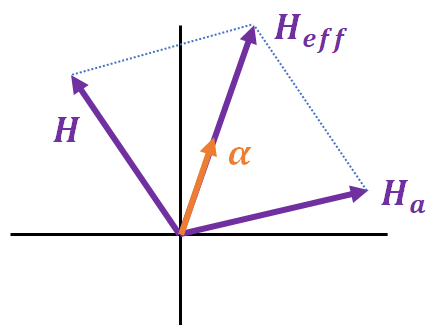
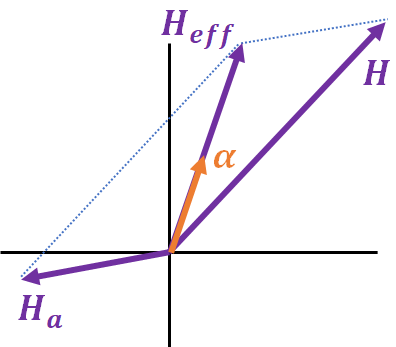
Update

diff --git a/maelasviewer.py b/maelasviewer.py
@@ -302,6 +302,8 @@ def update_output(system):
             html.Div([html.Img(src=app.get_asset_url('eq_cub_poly_lmb_s.png'))]),
             html.H6("The magnetization is considered to be saturated in the direction of the effective field Heff"),
             html.Div([html.Img(src=app.get_asset_url('eff_field.png'))]),
+            html.H6("The magentocrystalline anisotropy field for a polycrystalline material is more complicated than for single crystals. Hence, in the simulation the user can set directly the final direction of equilibrium magnetization via the effective field Heff."),
+            html.Div([html.Img(src=app.get_asset_url('poly.png'))]),
 
             html.H4("Parameters of the simulation"),
             html.H6("(Press Enter after changing any input to update the figures)"),
@@ -643,19 +645,33 @@ def update_output(system):
             html.H4("Theory"),
             html.H6("This interactive applet shows the magnetostriction due to Joule effect for some crystal systems."),
             html.Div([html.Img(src=app.get_asset_url('eq_ort.png'))]),
-            html.H6("where αi and βi (i=x,y,z) are the direction of magnetization (parallel to the external magentic field H) and the measured length direction, respectively. Magentostriction is a small effect that is hard to visualize. To facilitate its visualization in the simulation, we multiply the right hand side of this equation by a scale factor parameter which can be modified by the user."),
+            html.H6("where αi and βi (i=x,y,z) are the direction of magnetization and the measuring length direction, respectively. Magentostriction is a small effect that is hard to visualize. To facilitate its visualization in the simulation, we multiply the right hand side of this equation by a scale factor parameter which can be modified by the user."),
+
+            html.H6("The magnetocrystalline anisotropy energy for orthorhombic systems is"),
+            html.Div([html.Img(src=app.get_asset_url('mae_ort.png'))]),
+            html.H6("where K0, K1 and K2 are the magnetocrystalline anisotropy constants. K0 can be used to shift the minimum energy reference in the 3D visualization of the magnetocrystalline anisotropy energy. The magnetocrystalline anisotropy field Ha is"),
+            html.Div([html.Img(src=app.get_asset_url('mae_field.png'))]),
+            html.H6("where μ0 is the vacuum permeability and Ms is the saturation magnetization. In the simulation, it is assumed that the magnetization is saturated along the effective field Heff"),
+            html.Div([html.Img(src=app.get_asset_url('eff_field.png'))]),
+            html.H6("where H is the external magentic field. The direction of the equilibrium magnetization α is calculated by the Landau-Lifshitz-Gilbert equation"),
+            html.Div([html.Img(src=app.get_asset_url('llg.png'))]),
+            html.H6("where γ is the electron gyromagnetic ratio, and η is the damping parameter. At the equilibrium the magnetization is along the effective field (α||Heff). The torque |α x μ0Heff| is used as criterium for the numerical convergence, it is recommended to use a tolerance for the torque lower than 0.00001 Tesla. The user can change the damping parameter, time step (dt) and total number of iteration steps in case the tolerance for the torque is not achieved."),
+            html.Div([html.Img(src=app.get_asset_url('heffo.png'))]),
+
+
 
             html.H4("Parameters of the simulation"),
             html.H6("(Press Enter after changing any input to update the figures)"),
             html.Hr(),
-            html.H6("Direction of the external magnetic field:"),
-            html.Div(['H',html.Sub('x')," = ",
-              dcc.Input(id='ofieldx', value=1.0, type='number', debounce=True, step=0.1)]),
-            html.Div(['H',html.Sub('y')," = ",
-              dcc.Input(id='ofieldy', value=0.0, type='number', debounce=True, step=0.1)]),
-            html.Div(['H',html.Sub('z')," = ",
-              dcc.Input(id='ofieldz', value=0.0, type='number', debounce=True, step=0.1)]),
-            html.H6("Magnetostrictive coefficients:"),
+            
+            dcc.Markdown(''' **External magnetic field:**'''),
+            html.Div(['μ0H',html.Sub('x'),'(Tesla)'" = ",
+              dcc.Input(id='ofieldx', value=5.000, type='number', debounce=True, step=0.0000001)]),
+            html.Div(['μ0H',html.Sub('y'),'(Tesla)'" = ",
+              dcc.Input(id='ofieldy', value=0.500, type='number', debounce=True, step=0.0000001)]),
+            html.Div(['μ0H',html.Sub('z'),'(Tesla)'" = ",
+              dcc.Input(id='ofieldz', value=0.005, type='number', debounce=True, step=0.0000001)]),
+            dcc.Markdown(''' **Magnetostrictive coefficients:**'''),
             html.Div(['\u03BB',html.Sup("\u03B11,0")," = ",
               dcc.Input(id='oL01', value=0.0, type='number', debounce=True, step=0.000001)]),
             html.Div(['\u03BB',html.Sup("\u03B12,0")," = ",
@@ -682,13 +698,47 @@ def update_output(system):
               dcc.Input(id='oL9', value=0.000001, type='number', debounce=True, step=0.000001)]),
             html.Div(["Scale factor = ",
               dcc.Input(id='oscale', value=1.0, type='number', debounce=True)]),
+            dcc.Markdown(''' **Magnetocrystalline anisotropy constants:**'''),
+            html.Div(['K',html.Sub("0"), "(MJ/m",html.Sup("3"),")"," = ",
+              dcc.Input(id='k0o', value=0.001, type='number', debounce=True, step=0.0000001)]),
+            html.Div(['K',html.Sub("1"), "(MJ/m",html.Sup("3"),")"," = ",
+              dcc.Input(id='k1o', value=0.001, type='number', debounce=True, step=0.0000001)]),
+            html.Div(['K',html.Sub("2"),"(MJ/m",html.Sup("3"),")"," = ",
+              dcc.Input(id='k2o', value=0.001, type='number', debounce=True, step=0.0000001)]),
+            dcc.Markdown(''' **Saturation magnetization:**'''),
+            html.Div(['μ0Ms (Tesla)'," = ",
+              dcc.Input(id='mso', value=0.01, type='number', debounce=True, step=0.0001)]),
+            dcc.Markdown(''' **Landau-Lifshitz-Gilbert solver to find the direction of the equilibrium magnetization (α):**'''),
+            html.Div(['Damping LLG '," = ",
+              dcc.Input(id='alpha0o', value=0.95, type='number', debounce=True, step=0.00001)]),
+            html.Div(['Torque tolerance |α x μ0Heff| (Tesla)'," = ",
+              dcc.Input(id='tolo', value=0.00001, type='number', debounce=True, step=0.000000001)]),
+            html.Div(['Time step LLG (ps)'," = ",
+              dcc.Input(id='dto', value=0.01, type='number', debounce=True, step=0.00001)]),
+            html.Div(['Total number of iteration steps'," = ",
+              dcc.Input(id='nto', value=500000, type='number', debounce=True, step=1)]),
 
             html.Div(id='my-output-o'),
             html.Hr(),
             html.H4(" Simulation"),
             html.H6("The distance between a point on the surface and the origin (0,0,0) describes the length l along direction \u03B2=(sinθ*cosφ, sinθ*sinφ, cosθ), where θ and φ are the polar and azimuthal angles, respectively. The color of the surface corresponds to the relative length change multiplied by the scale factor along direction \u03B2."),
+            html.H6("Solver output:"),
+            html.Table([
+                html.Tr([html.Td(['Parameters']), html.Td(['Calculated values'])]),
+                html.Tr([html.Td(['α', html.Sub('x')]), html.Td(id='meqxo')]),
+                html.Tr([html.Td(['α', html.Sub('y')]), html.Td(id='meqyo')]),
+                html.Tr([html.Td(['α', html.Sub('z')]), html.Td(id='meqzo')]),
+                html.Tr([html.Td(['μ0H', html.Sub('eff,x'),'(T)']), html.Td(id='hefxo')]),
+                html.Tr([html.Td(['μ0H', html.Sub('eff,y'),'(T)']), html.Td(id='hefyo')]),
+                html.Tr([html.Td(['μ0H', html.Sub('eff,z'),'(T)']), html.Td(id='hefzo')]),
+                html.Tr([html.Td(['Torque |α x μ0Heff| (T)']), html.Td(id='torqueo')]),
+            
+            ]),
+            
+            
             dcc.Graph(id='ort_3D'),
-            dcc.Graph(id='ort_2D')
+            dcc.Graph(id='ort_2D'),
+            dcc.Graph(id='mae_ort_3D'),
  
            
         ])
@@ -745,29 +795,33 @@ def field(crystal,sx,sy,sz,ms0,efx,efy,efz,k01,k02):
 
 def llg(crystal0,mms0,effx,effy,effz,kk01,kk02,alpha,tol0,dt,ntot):
 
+    hmod=np.sqrt(effx**2.0+effy**2.0+effz**2.0)
     
-  #  uu=np.random.random_sample()*np.pi
-  #  vv=np.random.random_sample()*2.0*np.pi
+    if hmod < 10.0**(-6): 
+        uu=np.random.random_sample()*np.pi
+        vv=np.random.random_sample()*2.0*np.pi
             
-  #  a0x = np.sin(uu)*np.cos(vv)
-  #  a0y = np.sin(uu)*np.sin(vv)
-  #  a0z = np.cos(uu)
-  
-    a0x = effx/np.sqrt(effx**2.0+effy**2.0+effz**2.0+10.0**(-7))
-    a0y = effy/np.sqrt(effx**2.0+effy**2.0+effz**2.0+10.0**(-7))
-    a0z = effz/np.sqrt(effx**2.0+effy**2.0+effz**2.0+10.0**(-7))
+        a0x = np.sin(uu)*np.cos(vv)
+        a0y = np.sin(uu)*np.sin(vv)
+        a0z = np.cos(uu)
     
-    a0x=a0x/np.sqrt(a0x**2+a0y**2+a0z**2.0)
-    a0y=a0y/np.sqrt(a0x**2+a0y**2+a0z**2.0)
-    a0z=a0z/np.sqrt(a0x**2+a0y**2+a0z**2.0)
+    else:
     
-    a0x=a0x+np.random.uniform(-1,1)*10.0**(-3)
-    a0y=a0y+np.random.uniform(-1,1)*10.0**(-3)
-    a0z=a0z+np.random.uniform(-1,1)*10.0**(-3)
+        a0x = effx/hmod
+        a0y = effy/hmod
+        a0z = effz/hmod
     
-    a0x=a0x/np.sqrt(a0x**2+a0y**2+a0z**2.0)
-    a0y=a0y/np.sqrt(a0x**2+a0y**2+a0z**2.0)
-    a0z=a0z/np.sqrt(a0x**2+a0y**2+a0z**2.0)
+        a0x=a0x/np.sqrt(a0x**2+a0y**2+a0z**2.0)
+        a0y=a0y/np.sqrt(a0x**2+a0y**2+a0z**2.0)
+        a0z=a0z/np.sqrt(a0x**2+a0y**2+a0z**2.0)
+    
+        a0x=a0x+np.random.uniform(-1,1)*10.0**(-3)
+        a0y=a0y+np.random.uniform(-1,1)*10.0**(-3)
+        a0z=a0z+np.random.uniform(-1,1)*10.0**(-3)
+    
+        a0x=a0x/np.sqrt(a0x**2+a0y**2+a0z**2.0)
+        a0y=a0y/np.sqrt(a0x**2+a0y**2+a0z**2.0)
+        a0z=a0z/np.sqrt(a0x**2+a0y**2+a0z**2.0)
     
     
     dt=dt*10.0**(-12)
@@ -1109,13 +1163,13 @@ def update_figure(hx,hy,hz,lmbs,s):
 
     figp = make_subplots(rows=1, cols=2,
                     specs=[[{'is_3d': True}, {'is_3d': True}]],
-                    subplot_titles=['       Effective field (Heff), magnetization (\u03B1) and unit cell lattice vectors (a,b,c)           ', '        Color corresponds to (\u0394l/lo)*scale_factor along direction \u03B2'],)
+                    subplot_titles=['       Effective field (Heff), magnetization (\u03B1) and axis (x,y,z)           ', '        Color corresponds to (\u0394l/lo)*scale_factor along direction \u03B2'],)
 
     figp.add_trace(go.Cone(x=[1], y=[1], z=[1], u=[ax], v=[ay], w=[az],name="Heff/|Heff|",colorscale=[[0, 'rgb(0,0,255)'], [1, 'rgb(255,0,0)']]),1, 1)
     figp.add_trace(go.Cone(x=[1], y=[1], z=[0], u=[ax], v=[ay], w=[az],name="\u03B1",colorscale=[[0, 'rgb(255,127,14)'], [1, 'rgb(255,127,16)']]),1, 1)
-    figp.add_trace(go.Cone(x=[0.4], y=[0], z=[0], u=[2], v=[0], w=[0],name="a",colorscale=[[0, 'rgb(255,0,0)'], [1, 'rgb(240,0,0)']]),1, 1)
-    figp.add_trace(go.Cone(x=[0], y=[0.4], z=[0], u=[0], v=[2], w=[0],name="b",colorscale=[[0, 'rgb(0,255,0)'], [1, 'rgb(0,240,0)']]),1, 1)
-    figp.add_trace(go.Cone(x=[0], y=[0], z=[0.4], u=[0], v=[0], w=[2],name="c",colorscale=[[0, 'rgb(0,0,255)'], [1, 'rgb(0,0,240)']]),1, 1)
+    figp.add_trace(go.Cone(x=[0.4], y=[0], z=[0], u=[2], v=[0], w=[0],name="X",colorscale=[[0, 'rgb(255,0,0)'], [1, 'rgb(240,0,0)']]),1, 1)
+    figp.add_trace(go.Cone(x=[0], y=[0.4], z=[0], u=[0], v=[2], w=[0],name="Y",colorscale=[[0, 'rgb(0,255,0)'], [1, 'rgb(0,240,0)']]),1, 1)
+    figp.add_trace(go.Cone(x=[0], y=[0], z=[0.4], u=[0], v=[0], w=[2],name="Z",colorscale=[[0, 'rgb(0,0,255)'], [1, 'rgb(0,0,240)']]),1, 1)
 
     figp.update_traces(hoverinfo="name+u+v+w", showscale=False)
     figp.add_trace(go.Surface(x=x, y=y, z=z, surfacecolor=(np.sqrt(x**2+y**2+z**2)-d)/d, name="\u03B2"), 1, 2)
@@ -1709,7 +1763,7 @@ def update_tefig(hx,hy,hz,lmb01,lmb02,lmba1,lmba2,lmbg,lmbd,lmbe,s,kk1,kk2,mms,a
     tefig.add_trace(go.Cone(x=[1], y=[1], z=[1], u=[hhx], v=[hhy], w=[hhz],name="H/|H|",colorscale=[[0, 'rgb(0,0,255)'], [1, 'rgb(255,0,0)']]),1, 1)
     tefig.add_trace(go.Cone(x=[1], y=[1], z=[0], u=[ax], v=[ay], w=[az],name="\u03B1",colorscale=[[0, 'rgb(255,127,14)'], [1, 'rgb(255,127,16)']]),1, 1)
     tefig.add_trace(go.Cone(x=[0.4], y=[0], z=[0], u=[2], v=[0], w=[0],name="a",colorscale=[[0, 'rgb(255,0,0)'], [1, 'rgb(240,0,0)']]),1, 1)
-    tefig.add_trace(go.Cone(x=[-0.2], y=[0.34641016], z=[0], u=[-1], v=[1.7320508], w=[0],name="b",colorscale=[[0, 'rgb(0,255,0)'], [1, 'rgb(0,240,0)']]),1, 1)
+    tefig.add_trace(go.Cone(x=[0.0], y=[0.4], z=[0], u=[0], v=[2], w=[0],name="b",colorscale=[[0, 'rgb(0,255,0)'], [1, 'rgb(0,240,0)']]),1, 1)
     tefig.add_trace(go.Cone(x=[0], y=[0], z=[0.4], u=[0], v=[0], w=[2],name="c",colorscale=[[0, 'rgb(0,0,255)'], [1, 'rgb(0,0,240)']]),1, 1)
 
     tefig.update_traces(hoverinfo="name+u+v+w", showscale=False)
@@ -1860,8 +1914,17 @@ def update_figmaete(kkkk0,kkkk1,kkkk2):
 
 ############## Ort-3D
 
+
 @app.callback(
-    Output('ort_3D', 'figure'),
+    [Output('ort_3D', 'figure'),
+     Output('meqxo', 'children'),
+     Output('meqyo', 'children'),
+     Output('meqzo', 'children'),
+     Output('hefxo', 'children'),
+     Output('hefyo', 'children'),
+     Output('hefzo', 'children'),
+     Output('torqueo', 'children'),
+     ],
     [Input(component_id='ofieldx', component_property='value'),
      Input(component_id='ofieldy', component_property='value'),
      Input(component_id='ofieldz', component_property='value'),
@@ -1878,38 +1941,60 @@ def update_figmaete(kkkk0,kkkk1,kkkk2):
      Input(component_id='oL8', component_property='value'),
      Input(component_id='oL9', component_property='value'),
      Input(component_id='oscale', component_property='value'),
+     Input(component_id='k1o', component_property='value'),
+     Input(component_id='k2o', component_property='value'),
+     Input(component_id='mso', component_property='value'),
+     Input(component_id='alpha0o', component_property='value'),
+     Input(component_id='tolo', component_property='value'),
+     Input(component_id='dto', component_property='value'),
+     Input(component_id='nto', component_property='value'),
+     
     ]
 )
 
 
-def update_ofig(hx,hy,hz,lmb01,lmb02,lmb03,lmb1,lmb2,lmb3,lmb4,lmb5,lmb6,lmb7,lmb8,lmb9,s):
+
+def update_ofig(hx,hy,hz,lmb01,lmb02,lmb03,lmb1,lmb2,lmb3,lmb4,lmb5,lmb6,lmb7,lmb8,lmb9,s,kk1,kk2,mms,alph,tol00,dtt,ntt):
 
     d=1.0
-    h=np.sqrt(hx*hx+hy*hy+hz*hz)
-    ax=hx/h
-    ay=hy/h
-    az=hz/h
+    
+    crys = 'ort'
+    
+    ax,ay,az=llg(crys,mms,hx,hy,hz,kk1,kk2,alph,tol00,dtt,ntt)
+    heffx,heffy,heffz=field(crys,ax,ay,az,mms,hx,hy,hz,kk1,kk2)
+    torque=np.sqrt((heffy*az-heffz*ay)**2.0+(heffz*ax-heffx*az)**2.0+(heffx*ay-heffy*ax)**2.0) 
+
+    
+
     u, v = np.mgrid[0:np.pi:100j, 0:2*np.pi:100j]
     bx = np.sin(u)*np.cos(v)
     by = np.sin(u)*np.sin(v)
     bz = np.cos(u)
     f = lmb01*bx**2+lmb02*by**2+lmb03*bz**2+lmb1*(ax**2*bx**2-ax*ay*bx*by-ax*az*bx*bz)+lmb2*(ay**2*bx**2-ax*ay*bx*by)+lmb3*(ax**2*by**2-ax*ay*bx*by)+lmb4*(ay**2*by**2-ax*ay*bx*by-ay*az*by*bz)+lmb5*(ax**2*bz**2-ax*az*bx*bz)+lmb6*(ay**2*bz**2-ay*az*by*bz)+lmb7*4*ax*ay*bx*by+lmb8*4*ax*az*bx*bz+lmb9*4*ay*az*by*bz
+
+    
     x = d*(1.0+s*f)*bx
     y = d*(1.0+s*f)*by
     z = d*(1.0+s*f)*bz
     dl_l=(np.sqrt(x**2+y**2+z**2)-d)/d
+    
+    hmod=np.sqrt(hx**2.0+hy**2.0+hz**2.0)+10.0**(-8)
+    
+    hhx=hx/hmod
+    hhy=hy/hmod
+    hhz=hz/hmod
 
     ofig = make_subplots(rows=1, cols=2,
                     specs=[[{'is_3d': True}, {'is_3d': True}]],
-                    subplot_titles=['      Magnetic field (H), magnetization (\u03B1) and unit cell lattice vectors (a,b,c)           ', '        Color corresponds to (\u0394l/lo)*scale_factor along direction \u03B2'],)
+                    subplot_titles=['  External field (H), magnetization (\u03B1) and unit cell lattice vectors (a,b,c)           ', '        Color corresponds to (\u0394l/lo)*scale_factor along direction \u03B2'],)
 
-    ofig.add_trace(go.Cone(x=[1], y=[1], z=[1], u=[ax], v=[ay], w=[az],name="H",colorscale=[[0, 'rgb(0,0,255)'], [1, 'rgb(255,0,0)']]),1, 1)
+    ofig.add_trace(go.Cone(x=[1], y=[1], z=[1], u=[hhx], v=[hhy], w=[hhz],name="H/|H|",colorscale=[[0, 'rgb(0,0,255)'], [1, 'rgb(255,0,0)']]),1, 1)
     ofig.add_trace(go.Cone(x=[1], y=[1], z=[0], u=[ax], v=[ay], w=[az],name="\u03B1",colorscale=[[0, 'rgb(255,127,14)'], [1, 'rgb(255,127,16)']]),1, 1)
     ofig.add_trace(go.Cone(x=[0.4], y=[0], z=[0], u=[2], v=[0], w=[0],name="a",colorscale=[[0, 'rgb(255,0,0)'], [1, 'rgb(240,0,0)']]),1, 1)
     ofig.add_trace(go.Cone(x=[0], y=[0.4], z=[0], u=[0], v=[2], w=[0],name="b",colorscale=[[0, 'rgb(0,255,0)'], [1, 'rgb(0,240,0)']]),1, 1)
     ofig.add_trace(go.Cone(x=[0], y=[0], z=[0.4], u=[0], v=[0], w=[2],name="c",colorscale=[[0, 'rgb(0,0,255)'], [1, 'rgb(0,0,240)']]),1, 1)
 
-    ofig.update_traces(hoverinfo="name", showscale=False)
+    ofig.update_traces(hoverinfo="name+u+v+w", showscale=False)
     ofig.add_trace(go.Surface(x=x, y=y, z=z, surfacecolor=dl_l, name="l"), 1, 2)
 
     ofig.update_layout(transition_duration=500)
@@ -1917,9 +2002,12 @@ def update_ofig(hx,hy,hz,lmb01,lmb02,lmb03,lmb1,lmb2,lmb3,lmb4,lmb5,lmb6,lmb7,lm
     ofig.update_yaxes(automargin=True)
     ofig.update_xaxes(automargin=True)
 
-    return ofig
+    return ofig,ax,ay,az,heffx,heffy,heffz,torque
+
+
 
 ######################################## Ort 2D
+
 
 @app.callback(
     Output('ort_2D', 'figure'),
@@ -1939,17 +2027,25 @@ def update_ofig(hx,hy,hz,lmb01,lmb02,lmb03,lmb1,lmb2,lmb3,lmb4,lmb5,lmb6,lmb7,lm
      Input(component_id='oL8', component_property='value'),
      Input(component_id='oL9', component_property='value'),
      Input(component_id='oscale', component_property='value'),
+     Input(component_id='k1o', component_property='value'),
+     Input(component_id='k2o', component_property='value'),
+     Input(component_id='mso', component_property='value'),
+     Input(component_id='alpha0o', component_property='value'),
+     Input(component_id='tolo', component_property='value'),
+     Input(component_id='dto', component_property='value'),
+     Input(component_id='nto', component_property='value'),
     ]
 )
 
 
-def update_figo2d(hx,hy,hz,lmb01,lmb02,lmb03,lmb1,lmb2,lmb3,lmb4,lmb5,lmb6,lmb7,lmb8,lmb9,s):
+def update_figo2d(hx,hy,hz,lmb01,lmb02,lmb03,lmb1,lmb2,lmb3,lmb4,lmb5,lmb6,lmb7,lmb8,lmb9,s,kkk1,kkk2,mmms,alph,tol00,dtt,ntt):
 
     d=1.0
-    h=np.sqrt(hx*hx+hy*hy+hz*hz)
-    ax=hx/h
-    ay=hy/h
-    az=hz/h
+    
+    crys = 'ort'
+    
+    ax,ay,az=llg(crys,mmms,hx,hy,hz,kkk1,kkk2,alph,tol00,dtt,ntt)
+
     vxy = np.mgrid[0:2*np.pi:200j]
     bxxy = np.cos(vxy)
     byxy = np.sin(vxy)
@@ -1977,6 +2073,7 @@ def update_figo2d(hx,hy,hz,lmb01,lmb02,lmb03,lmb1,lmb2,lmb3,lmb4,lmb5,lmb6,lmb7,
     yyz = d*(1.0+s*fyz)*byyz
     zyz = d*(1.0+s*fyz)*bzyz
 
+    
     figo2d = make_subplots(rows=1, cols=3,
                     specs=[[{'type': 'xy'}, {'type': 'xy'}, {'type': 'xy'}]],
                     subplot_titles=['Plot XY plane (z=0)', 'Plot XZ plane (y=0)', 'Plot YZ plane (x=0)'],)
@@ -1997,6 +2094,57 @@ def update_figo2d(hx,hy,hz,lmb01,lmb02,lmb03,lmb1,lmb2,lmb3,lmb4,lmb5,lmb6,lmb7,
     figo2d.update_xaxes(automargin=True)
 
     return figo2d
+
+
+##############MAE ort -3D
+
+@app.callback(
+    Output('mae_ort_3D', 'figure'),
+    [Input(component_id='k0o', component_property='value'),
+     Input(component_id='k1o', component_property='value'),
+     Input(component_id='k2o', component_property='value'),
+    ]
+)
+
+
+def update_figmaeo(kkkk0,kkkk1,kkkk2):
+
+
+    kkkk0=kkkk0*10**3
+    kkkk1=kkkk1*10**3
+    kkkk2=kkkk2*10**3
+   
+
+    u, v = np.mgrid[0:np.pi:100j, 0:2*np.pi:100j]
+    bx = np.sin(u)*np.cos(v)
+    by = np.sin(u)*np.sin(v)
+    bz = np.cos(u)
+    f = kkkk0+kkkk1*bx**2.0+kkkk2*by**2.0
+    fmin=np.amin(f)
+    
+    x = f*bx
+    y = f*by
+    z = f*bz
+    
+    ene=np.sqrt(x**2.0+y**2.0+z**2.0)
+
+
+    figmaeo = make_subplots(rows=1, cols=1,
+                    specs=[[{'is_3d': True}]],
+                    subplot_titles=['  Color corresponds to Magnetocrystalline Anisotropy Energy (KJ/m^3) '])
+
+   
+    figmaeo.add_trace(go.Surface(x=x, y=y, z=z, surfacecolor=f, name="E"), 1, 1)
+
+    figmaeo.update_layout(transition_duration=500)
+
+    figmaeo.update_yaxes(automargin=True)
+    figmaeo.update_xaxes(automargin=True)
+
+    return figmaeo
+
+
+
 
 
 ############## rod-3D
